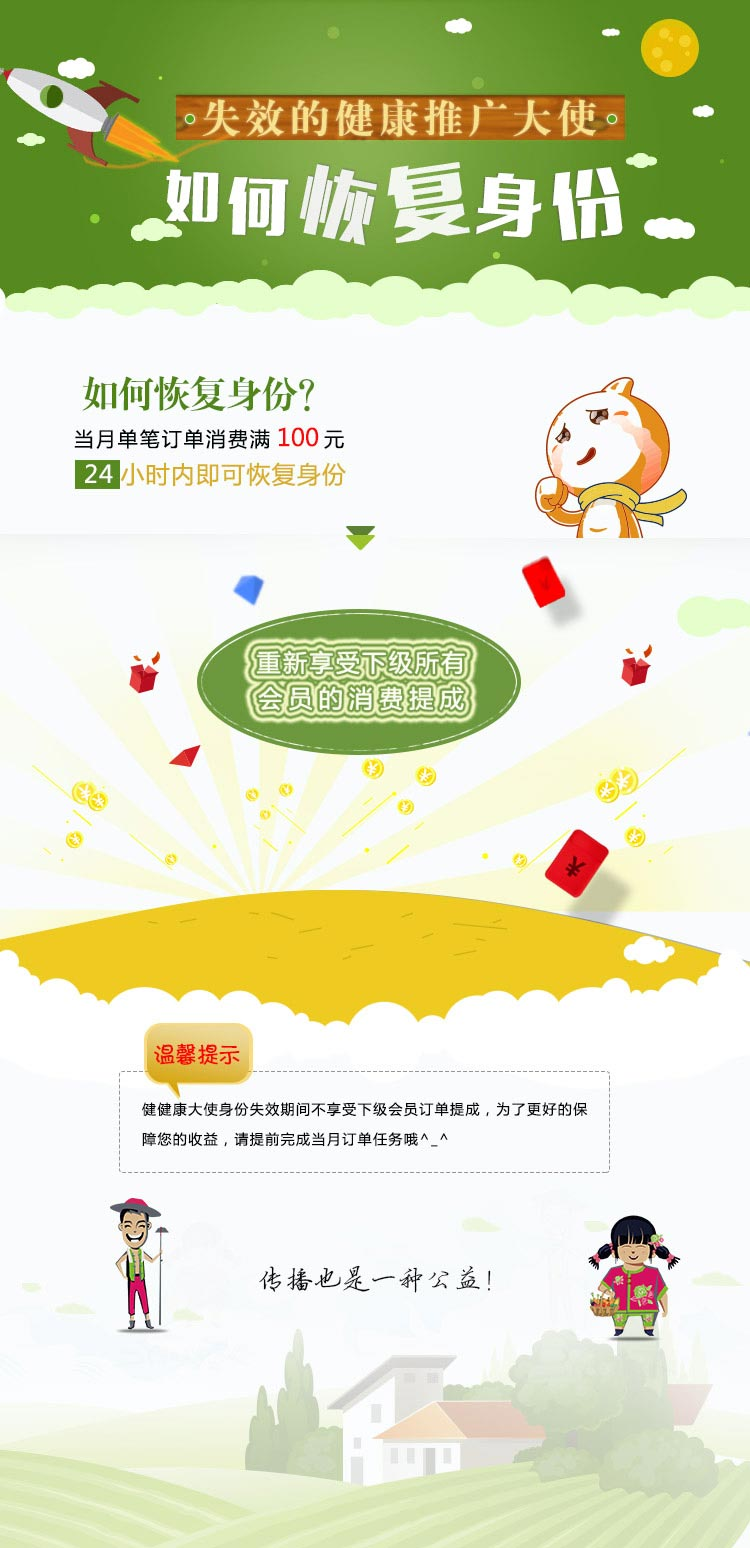
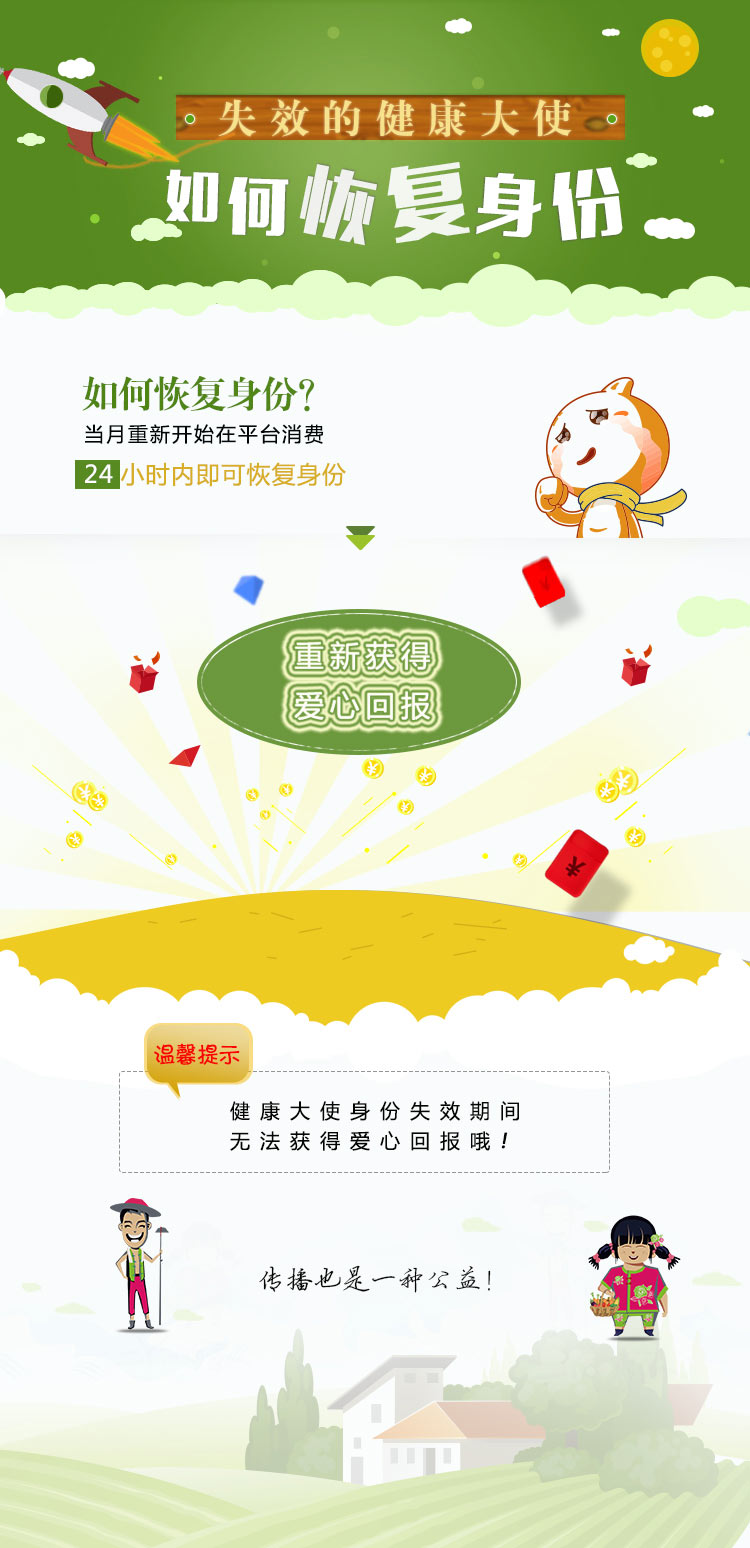
我的推广文案修改，首页，列表页修改

diff --git a/src/js/product/list.js b/src/js/product/list.js
@@ -58,6 +58,14 @@
                         self.sortdirection = 'DESC';
                         $("ul.am-gallery").html('<li class="no-data"><p><img src="/img/em3.png"></p><p>二丫家还没有这款商品诶~ <br>您再看看别哒~</p></li>');
                         self.get();
+                        scroll.on(function() {
+                            if (!self.isEnd) {
+                                self.pageNo++;
+                                self.get();
+                            }
+                        }, function() {
+                            /* 上拉到顶 */
+                        });
                     }
                     else{
                         $("ul.am-gallery").html("");
@@ -65,6 +73,14 @@
                         self.sortdirection = 'DESC';
                         $("ul.am-gallery").html('<li class="no-data"><p><img src="/img/em3.png"></p><p>二丫家还没有这款商品诶~ <br>您再看看别哒~</p></li>');
                         self.get();
+                        scroll.on(function() {
+                            if (!self.isEnd) {
+                                self.pageNo++;
+                                self.get();
+                            }
+                        }, function() {
+                            /* 上拉到顶 */
+                        });
                     }
                 }
                 else if ($(this).data("id") == "sortdirection") {
@@ -77,6 +93,14 @@
                         self.sortdirection = 'ASC';
                         $("ul.am-gallery").html('<li class="no-data"><p><img src="/img/em3.png"></p><p>二丫家还没有这款商品诶~ <br>您再看看别哒~</p></li>');
                         self.get();
+                        scroll.on(function() {
+                            if (!self.isEnd) {
+                                self.pageNo++;
+                                self.get();
+                            }
+                        }, function() {
+                            /* 上拉到顶 */
+                        });
                     }
                     else{
                         $("ul.am-gallery").html("");
@@ -84,6 +108,14 @@
                         self.sortdirection = 'DESC';
                         $("ul.am-gallery").html('<li class="no-data"><p><img src="/img/em3.png"></p><p>二丫家还没有这款商品诶~ <br>您再看看别哒~</p></li>');
                         self.get();
+                        scroll.on(function() {
+                            if (!self.isEnd) {
+                                self.pageNo++;
+                                self.get();
+                            }
+                        }, function() {
+                            /* 上拉到顶 */
+                        });
                     }
                 }
                 else if ($(this).data("id") == "defult") {
@@ -96,6 +128,14 @@
                         self.sortdirection = 'ASC';
                         $("ul.am-gallery").html('<li class="no-data"><p><img src="/img/em3.png"></p><p>二丫家还没有这款商品诶~ <br>您再看看别哒~</p></li>');
                         self.get();
+                        scroll.on(function() {
+                            if (!self.isEnd) {
+                                self.pageNo++;
+                                self.get();
+                            }
+                        }, function() {
+                            /* 上拉到顶 */
+                        });
                     }
                     else{
                         $("ul.am-gallery").html("");
@@ -103,6 +143,14 @@
                         self.sortdirection = 'DESC';
                         $("ul.am-gallery").html('<li class="no-data"><p><img src="/img/em3.png"></p><p>二丫家还没有这款商品诶~ <br>您再看看别哒~</p></li>');
                         self.get();
+                        scroll.on(function() {
+                            if (!self.isEnd) {
+                                self.pageNo++;
+                                self.get();
+                            }
+                        }, function() {
+                            /* 上拉到顶 */
+                        });
                     }
                 }
             });

diff --git a/src/js/product/search.js b/src/js/product/search.js
@@ -59,6 +59,14 @@
                         self.sortdirection = 'DESC';
                         $("ul.am-gallery").html('<li class="no-data"><p><img src="/img/em3.png"></p><p>二丫家还没有这款商品诶~ <br>您再看看别哒~</p></li>');
                         self.get();
+                        scroll.on(function() {
+                            if (!self.isEnd) {
+                                self.pageNo++;
+                                self.get();
+                            }
+                        }, function() {
+                            /* 上拉到顶 */
+                        });
                     }
                     else{
                         $("ul.am-gallery").html("");
@@ -66,6 +74,14 @@
                         self.sortdirection = 'DESC';
                         $("ul.am-gallery").html('<li class="no-data"><p><img src="/img/em3.png"></p><p>二丫家还没有这款商品诶~ <br>您再看看别哒~</p></li>');
                         self.get();
+                        scroll.on(function() {
+                            if (!self.isEnd) {
+                                self.pageNo++;
+                                self.get();
+                            }
+                        }, function() {
+                            /* 上拉到顶 */
+                        });
                     }
                 }
                 else if ($(this).data("id") == "sortdirection") {
@@ -78,6 +94,14 @@
                         self.sortdirection = 'ASC';
                         $("ul.am-gallery").html('<li class="no-data"><p><img src="/img/em3.png"></p><p>二丫家还没有这款商品诶~ <br>您再看看别哒~</p></li>');
                         self.get();
+                        scroll.on(function() {
+                            if (!self.isEnd) {
+                                self.pageNo++;
+                                self.get();
+                            }
+                        }, function() {
+                            /* 上拉到顶 */
+                        });
                     }
                     else{
                         $("ul.am-gallery").html("");
@@ -85,6 +109,14 @@
                         self.sortdirection = 'DESC';
                         $("ul.am-gallery").html('<li class="no-data"><p><img src="/img/em3.png"></p><p>二丫家还没有这款商品诶~ <br>您再看看别哒~</p></li>');
                         self.get();
+                        scroll.on(function() {
+                            if (!self.isEnd) {
+                                self.pageNo++;
+                                self.get();
+                            }
+                        }, function() {
+                            /* 上拉到顶 */
+                        });
                     }
                 }
                 else if ($(this).data("id") == "defult") {
@@ -97,6 +129,14 @@
                         self.sortdirection = 'ASC';
                         $("ul.am-gallery").html('<li class="no-data"><p><img src="/img/em3.png"></p><p>二丫家还没有这款商品诶~ <br>您再看看别哒~</p></li>');
                         self.get();
+                        scroll.on(function() {
+                            if (!self.isEnd) {
+                                self.pageNo++;
+                                self.get();
+                            }
+                        }, function() {
+                            /* 上拉到顶 */
+                        });
                     }
                     else{
                         $("ul.am-gallery").html("");
@@ -104,6 +144,14 @@
                         self.sortdirection = 'DESC';
                         $("ul.am-gallery").html('<li class="no-data"><p><img src="/img/em3.png"></p><p>二丫家还没有这款商品诶~ <br>您再看看别哒~</p></li>');
                         self.get();
+                        scroll.on(function() {
+                            if (!self.isEnd) {
+                                self.pageNo++;
+                                self.get();
+                            }
+                        }, function() {
+                            /* 上拉到顶 */
+                        });
                     }
                 }
             });

diff --git a/src/js/sale/index.js b/src/js/sale/index.js
@@ -12,17 +12,17 @@
         $(".mySale .list.mt05").show();
         if (userinfo.Uidentity == 1) {
             $(".pinfo .UserIdentity").text("身份：推广大使");
-            $(".pinfo .link a").text("如何推广？");
-            $(".pinfo .link a").attr('src', '/profile/how_1.html');
+            $(".pinfo .link a").text("爱心传递");
+            $(".pinfo .link a").attr('href', '/profile/how_1.html');
         } else {
             $(".pinfo .UserIdentity").text("身份：普通会员");
             $(".pinfo .link a").text("如何成为健康推广大使？");
-            $(".pinfo .link a").attr('src', '/profile/how_2.html');
+            $(".pinfo .link a").attr('href', '/profile/how_2.html');
         }
 
         if (userinfo.IdentityState == 1) {
-            $(".pinfo .link a").text("如何恢复身份？");
-            $(".pinfo .link a").attr('src', '/profile/how_3.html');
+            $(".pinfo .link a").text("如何继续做公益");
+            $(".pinfo .link a").attr('href', '/profile/how_3.html');
             $(".IdentityStateDisable").show();
         } else {
             $(".IdentityStateActive").show();
@@ -36,7 +36,7 @@
     function normal() {
         $(".pinfo .UserIdentity").text("身份：普通会员");
         $(".pinfo .link a").text("如何成为健康推广大使？");
-        $(".pinfo .link a").attr('src', '/profile/how_2.html');
+        $(".pinfo .link a").attr('href', '/profile/how_2.html');
 
         $(".mySale .link-toPrice").attr('href', 'javascript:;');
         $(".mySale .link-toCode").attr('href', 'javascript:;');
@@ -44,7 +44,7 @@
         $(".mySale .link-toSale").attr('href', 'javascript:;');
 
         $(".mySale").on("click", "a", function() {
-            modal.alert({ text: "啊哦暂无记录！单次购满699即可升级为健康推广大使获得丰厚收益，快来吧！" })
+            modal.alert({ text: "暂无记录，购买土鸡蛋年卡套餐即可成为健康推广大使获得爱心回报，快来吧！" })
         })
     }
 

diff --git a/views/sale/code.html b/views/sale/code.html
@@ -37,9 +37,9 @@ body {
     <div class="am-modal-dialog">
         <div class="am-modal-hd">二维码相关说明</div>
         <div class="am-modal-bd txt-l mt1">
-            1、成为健康大使的第四个自然月开始（一个自然月按30天计算），每月需完成单笔消费额（不含运费）≥100元的任务；
-            <br> 2、未完成任务的“健康推广大使”，从第五个自然月开始：a.健康推广大使身份失效；b.个人专属二维码失效；c.无法获得身份失效日之后的提成。
-            <br> 3、身份失效之后任意时间，满足单笔消费（不含运费）≥100元，可重新获取“健康推广大使”的的身份，获得新的个人专属二维码，并享受下线销售提成。
+            1、成为健康大使的第四个自然月开始（一个自然月按30天计算），每月仍需在平台消费；
+            <br> 2、未在平台消费的健康大使，从第五个自然月开始：a.健康大使身份失效；b.无法获得爱心回报。
+            <br> 3、身份失效之后任意时间，重新开始在平台消费，可重新获取健康大使身份，并获得爱心汇报。
         </div>
         <div class="am-modal-footer">
             <span class="am-modal-btn col-g">确定</span>

diff --git a/views/profile/bind.html b/views/profile/bind.html
@@ -7,7 +7,7 @@
                 <input type="text" id="name" name="name" minlength="3" placeholder="请填写登录手机号码 " class="am-form-field" required/>
             </div>
             <div class="am-form-group">
-                <input type="text" id="password" name="password" minlength="3" placeholder="请填写登录密码" class="am-form-field" required/>
+                <input type="password" id="password" name="password" minlength="3" placeholder="请填写登录密码" class="am-form-field" required/>
             </div>
         </div>
         <p class="alipay-button">

diff --git a/views/product/list.html b/views/product/list.html
@@ -23,7 +23,7 @@
                 <a href="javascript:void(0)" data-id="sortcolumn">卖的多</a>
             </li>
             <li>
-                <a href="javascript:void(0)" data-id="sortdirection">拍价格<i class="am-icon-caret-down"></i><i class="am-icon-caret-up"></i></a>
+                <a href="javascript:void(0)" data-id="sortdirection">排价格<i class="am-icon-caret-down"></i><i class="am-icon-caret-up"></i></a>
             </li>
         </ul>
     </div>

diff --git a/views/product/search.html b/views/product/search.html
@@ -23,7 +23,7 @@
                 <a href="javascript:void(0)" data-id="sortcolumn">卖的多</a>
             </li>
             <li>
-                <a href="javascript:void(0)" data-id="sortdirection">拍价格<i class="am-icon-caret-down"></i><i class="am-icon-caret-up"></i></a>
+                <a href="javascript:void(0)" data-id="sortdirection">排价格<i class="am-icon-caret-down"></i><i class="am-icon-caret-up"></i></a>
             </li>
         </ul>
     </div>

diff --git a/views/sale/index.html b/views/sale/index.html
@@ -11,7 +11,7 @@
             <div class="txt">
                 <p class="tit"></p>
                 <p class="UserIdentity"></p>
-                <p class="link"><a href="/profile/how_1.html">如何推广？</a></p>
+                <p class="link"><a href="/profile/how_1.html">爱心传递</a></p>
             </div>
         </div>
         <!-- <div class="con">
